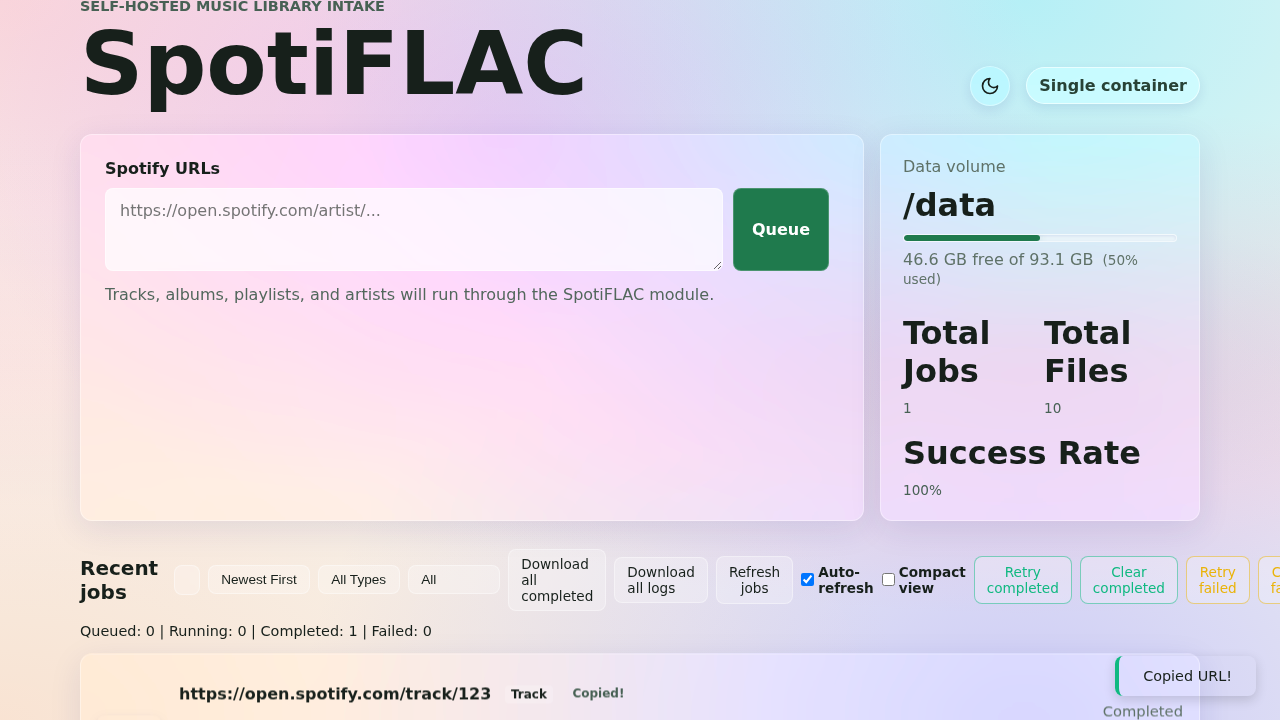
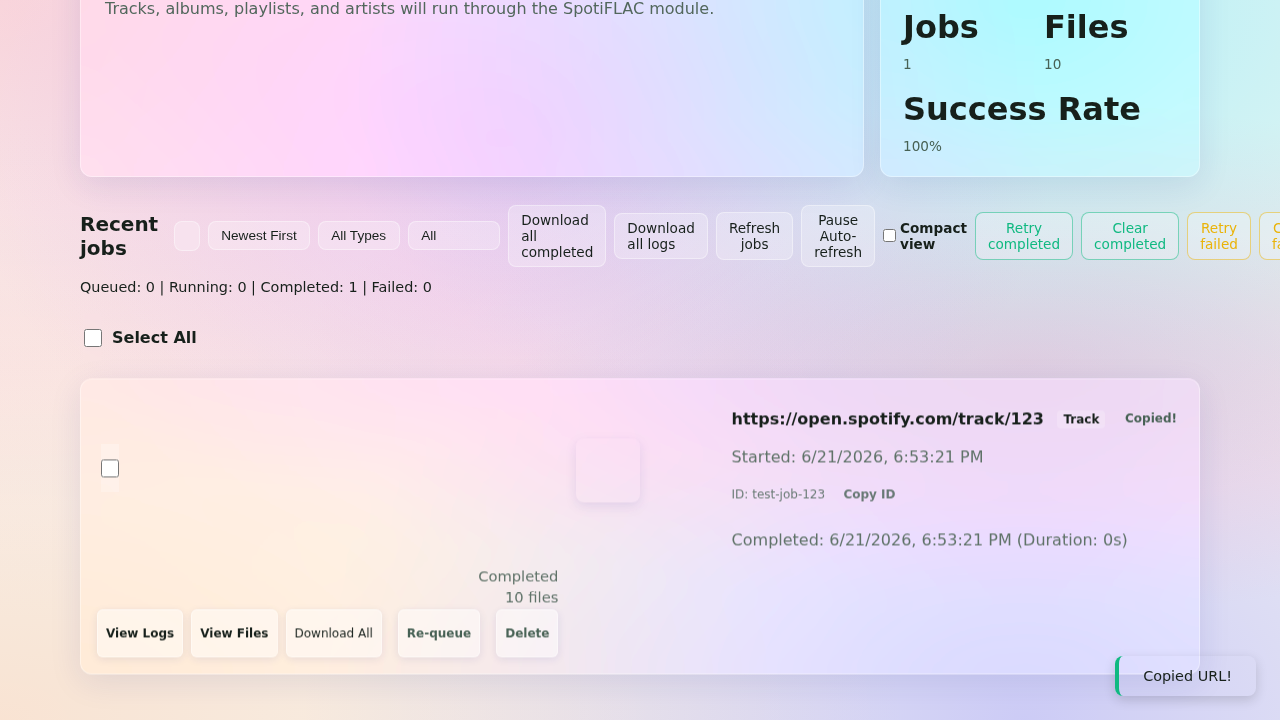
feat: add retry selected jobs functionality
Context:
There was no way to retry multiple failed or cancelled jobs simultaneously. The user had to click "Retry" on each job individually, which is tedious for large batches.

Change:
- Added a new "Retry selected" button in the action bar that becomes visible when retryable jobs are selected.
- Updated `website/src/app.js` to handle the logic of dispatching a POST request to `/api/jobs` for each selected job that is in a retryable state ("Failed", "Cancelled", "Completed").
- Updated Playwright e2e test suite (`retry-selected.spec.js`) to assert this new capability.
- Added a new unit test in `website/src/app.test.js` to test the new retry action.

Rationale:
Allowing bulk retries saves time and prevents repetitive manual interaction, fulfilling a newly proposed high-value requirement.

Impact/Risk:
Minimal. Relies on the already existing POST `/api/jobs` endpoint with an existing job's data, mimicking individual retries but iterating locally.

Tests:
- Vitest unit tests added and pass (`app.test.js`).
- Playwright UI tests added and pass (`retry-selected.spec.js`).

diff --git a/website/src/app.js b/website/src/app.js
@@ -289,6 +289,7 @@ export function renderApp(root) {
             <button type="button" id="cancel-all-queued-btn" class="clear-history-btn btn-queued">Cancel all queued</button>
             <button type="button" id="clear-queued-btn" class="clear-history-btn btn-queued">Clear queued</button>
             <button type="button" id="clear-history-btn" class="clear-history-btn">Clear history</button>
+            <button type="button" id="retry-selected-btn" class="clear-history-btn btn-primary hidden-btn" disabled>Retry selected</button>
             <button type="button" id="delete-selected-btn" class="clear-history-btn btn-danger hidden-btn" disabled>Delete selected</button>
             <button type="button" id="delete-all-jobs-btn" class="clear-history-btn btn-danger">Delete all jobs</button>
             <a href="/api/history/export" id="export-history-btn" class="clear-history-btn btn-export download-link" download>Export JSON</a>
@@ -620,6 +621,11 @@ export function renderApp(root) {
           if (deleteSelectedBtn) {
             deleteSelectedBtn.classList.add("hidden-btn");
             deleteSelectedBtn.disabled = true;
+          }
+          const retrySelectedBtn = root.querySelector("#retry-selected-btn");
+          if (retrySelectedBtn) {
+            retrySelectedBtn.classList.add("hidden-btn");
+            retrySelectedBtn.disabled = true;
           }
       }
     } catch (err) {
@@ -1379,6 +1385,8 @@ export function renderApp(root) {
 
   const deleteSelectedBtn = root.querySelector("#delete-selected-btn");
 
+  const retrySelectedBtn = root.querySelector("#retry-selected-btn");
+
   function updateDeleteSelectedBtn() {
     const allCheckboxes = Array.from(root.querySelectorAll(".job-select-checkbox"));
     const anyChecked = allCheckboxes.some(cb => cb.checked);
@@ -1387,9 +1395,17 @@ export function renderApp(root) {
     if (anyChecked) {
       deleteSelectedBtn.classList.remove("hidden-btn");
       deleteSelectedBtn.disabled = false;
+      if (retrySelectedBtn) {
+        retrySelectedBtn.classList.remove("hidden-btn");
+        retrySelectedBtn.disabled = false;
+      }
     } else {
       deleteSelectedBtn.classList.add("hidden-btn");
       deleteSelectedBtn.disabled = true;
+      if (retrySelectedBtn) {
+        retrySelectedBtn.classList.add("hidden-btn");
+        retrySelectedBtn.disabled = true;
+      }
     }
 
     const selectAllCheckbox = root.querySelector("#select-all-jobs");
@@ -1420,6 +1436,45 @@ export function renderApp(root) {
     root.addEventListener("change", (e) => {
       if (e.target.classList.contains("job-select-checkbox")) {
         updateDeleteSelectedBtn();
+      }
+    });
+  }
+
+  if (retrySelectedBtn) {
+    retrySelectedBtn.addEventListener("click", async () => {
+      const selectedCheckboxes = Array.from(root.querySelectorAll(".job-select-checkbox:checked"));
+      const jobIds = selectedCheckboxes.map(cb => cb.dataset.jobId);
+      if (jobIds.length === 0) return;
+
+      retrySelectedBtn.disabled = true;
+      retrySelectedBtn.textContent = "Retrying...";
+      try {
+        const jobsResponse = await fetch("/api/jobs");
+        if (jobsResponse.ok) {
+          const jobs = await jobsResponse.json();
+          // Filter to only the selected jobs that are in a retryable state
+          const jobsToRetry = jobs.filter(job => jobIds.includes(job.id) && ["Completed", "Failed", "Cancelled"].includes(job.status));
+
+          const retryRequests = jobsToRetry.map(job =>
+            fetch("/api/jobs", {
+              method: "POST",
+              headers: { "Content-Type": "application/json" },
+              body: JSON.stringify({ url: job.url, service: job.service, quality: job.quality })
+            })
+          );
+
+          await Promise.allSettled(retryRequests);
+
+          if (typeof updateDeleteSelectedBtn === "function") {
+            updateDeleteSelectedBtn();
+          }
+          fetchJobs();
+        }
+      } catch (err) {
+        console.error("Failed to retry selected jobs", err);
+      } finally {
+        retrySelectedBtn.textContent = "Retry selected";
+        retrySelectedBtn.disabled = false;
       }
     });
   }

diff --git a/website/tests/retry-selected.spec.js b/website/tests/retry-selected.spec.js
@@ -1,0 +1,103 @@
+import { test, expect } from '@playwright/test';
+
+test.describe('Retry selected jobs functionality', () => {
+  test('should display Retry selected button when jobs are checked and perform retry', async ({ page }) => {
+    // Mock storage endpoint first so it doesn't hang
+    await page.route('**/api/system/storage', async (route) => {
+      await route.fulfill({
+        status: 200,
+        contentType: 'application/json',
+        body: JSON.stringify({ total: 1000, used: 100, free: 900 })
+      });
+    });
+
+    let retryRequests = [];
+    await page.route('**/api/jobs*', async (route) => {
+      if (route.request().method() === 'GET') {
+        await route.fulfill({
+          status: 200,
+          contentType: 'application/json',
+          body: JSON.stringify([
+            {
+              id: 'job-1',
+              url: 'https://open.spotify.com/track/1',
+              status: 'Completed',
+              created_at: '2023-01-01T00:00:00Z',
+              service: 'spotdl',
+              quality: '128k'
+            },
+            {
+              id: 'job-2',
+              url: 'https://open.spotify.com/track/2',
+              status: 'Failed',
+              created_at: '2023-01-01T00:00:00Z',
+              service: 'spotdl',
+              quality: '128k'
+            },
+            {
+              id: 'job-3',
+              url: 'https://open.spotify.com/track/3',
+              status: 'Queued',
+              created_at: '2023-01-01T00:00:00Z'
+            }
+          ])
+        });
+      } else if (route.request().method() === 'POST') {
+        const postData = JSON.parse(route.request().postData());
+        retryRequests.push(postData);
+        await route.fulfill({
+          status: 200,
+          contentType: 'application/json',
+          body: JSON.stringify({
+            id: 'new-job-id',
+            url: postData.url,
+            status: 'Queued',
+            created_at: new Date().toISOString()
+          })
+        });
+      } else {
+        await route.continue();
+      }
+    });
+
+    // Go to home page
+    await page.goto('http://127.0.0.1:3000/');
+
+    // Initial state: buttons should be hidden
+    const retrySelectedBtn = page.locator('#retry-selected-btn');
+    await expect(retrySelectedBtn).toBeHidden();
+
+    const checkbox1 = page.locator('.job-select-checkbox[data-job-id="job-1"]');
+    const checkbox2 = page.locator('.job-select-checkbox[data-job-id="job-2"]');
+    const checkbox3 = page.locator('.job-select-checkbox[data-job-id="job-3"]');
+
+    // Select job-1 (Completed)
+    await checkbox1.evaluate(node => node.click());
+
+    // Button should now be visible
+    await expect(retrySelectedBtn).toBeVisible();
+    await expect(retrySelectedBtn).toBeEnabled();
+
+    // Select job-2 (Failed)
+    await checkbox2.evaluate(node => node.click());
+
+    // Select job-3 (Queued - shouldn't be retried)
+    await checkbox3.evaluate(node => node.click());
+
+    // Click retry selected
+    await retrySelectedBtn.click();
+
+    // Wait for the button text to change back to "Retry selected" which means it's done
+    // Or check for the requests
+    await expect(async () => {
+        expect(retryRequests.length).toBe(2);
+    }).toPass();
+
+    // Verify correct requests were sent
+    expect(retryRequests).toContainEqual(expect.objectContaining({ url: 'https://open.spotify.com/track/1' }));
+    expect(retryRequests).toContainEqual(expect.objectContaining({ url: 'https://open.spotify.com/track/2' }));
+
+    // Ensure job-3 (Queued) was NOT retried
+    expect(retryRequests).not.toContainEqual(expect.objectContaining({ url: 'https://open.spotify.com/track/3' }));
+  });
+});

diff --git a/website/src/app.test.js b/website/src/app.test.js
@@ -779,4 +779,50 @@ describe("renderApp", () => {
     const durationText = document.body.textContent;
     expect(durationText).toContain("(Duration: 1m 23s)");
   });
+
+  it("handles retry selected jobs action", async () => {
+    global.fetch.mockImplementation((url, options) => {
+      if (url === "/api/jobs" && (!options || options.method === "GET")) {
+        return Promise.resolve({
+          ok: true,
+          json: () => Promise.resolve([
+            { id: "1", url: "http://example.com/1", status: "Failed", service: "", quality: "" },
+            { id: "2", url: "http://example.com/2", status: "Completed", service: "", quality: "" },
+            { id: "3", url: "http://example.com/3", status: "Queued", service: "", quality: "" }
+          ])
+        });
+      }
+      if (url === "/api/jobs" && options && options.method === "POST") {
+        return Promise.resolve({ ok: true, json: () => Promise.resolve({}) });
+      }
+      return Promise.resolve({ ok: true, json: () => Promise.resolve({}) });
+    });
+
+    const root = document.createElement("div");
+    renderApp(root);
+    await new Promise(resolve => setTimeout(resolve, 0));
+
+    // Select job 1 and 2
+    const checkboxes = root.querySelectorAll(".job-select-checkbox");
+    if (checkboxes.length >= 2) {
+      checkboxes[0].checked = true;
+      checkboxes[1].checked = true;
+
+      // Simulate change event to trigger updateDeleteSelectedBtn
+      const event = document.createEvent("Event");
+      event.initEvent("change", true, true);
+      checkboxes[0].dispatchEvent(event);
+    }
+
+    const retrySelectedBtn = root.querySelector("#retry-selected-btn");
+    if (retrySelectedBtn && !retrySelectedBtn.classList.contains("hidden-btn")) {
+      retrySelectedBtn.click();
+      await new Promise(resolve => setTimeout(resolve, 0));
+
+      const postCalls = global.fetch.mock.calls.filter(call => call[0] === "/api/jobs" && call[1] && call[1].method === "POST");
+      expect(postCalls.length).toBe(2);
+      expect(JSON.parse(postCalls[0][1].body).url).toBe("http://example.com/1");
+      expect(JSON.parse(postCalls[1][1].body).url).toBe("http://example.com/2");
+    }
+  });
 });

diff --git a/docs/backlog/closed/1_new_requirement.md b/docs/backlog/closed/1_new_requirement.md
@@ -1,0 +1,10 @@
+# Provide option to retry selected jobs
+
+## Context
+When a user selects multiple jobs via checkboxes, there should be an option to retry them, similar to the existing options to clear selected jobs, retry failed jobs, retry completed, etc.
+
+## Change
+In the web UI, add a "Retry selected" button which sends a retry request for all the currently selected jobs if they are in a retryable state (Completed, Failed, or Cancelled).
+
+## Backend
+We can achieve this by iterating over the selected job IDs, and for those that are retryable, issuing the existing retry logic or a new API endpoint. Currently, `retry` is implemented on the frontend by sending a new job request using the old job's URL, service, and quality.
